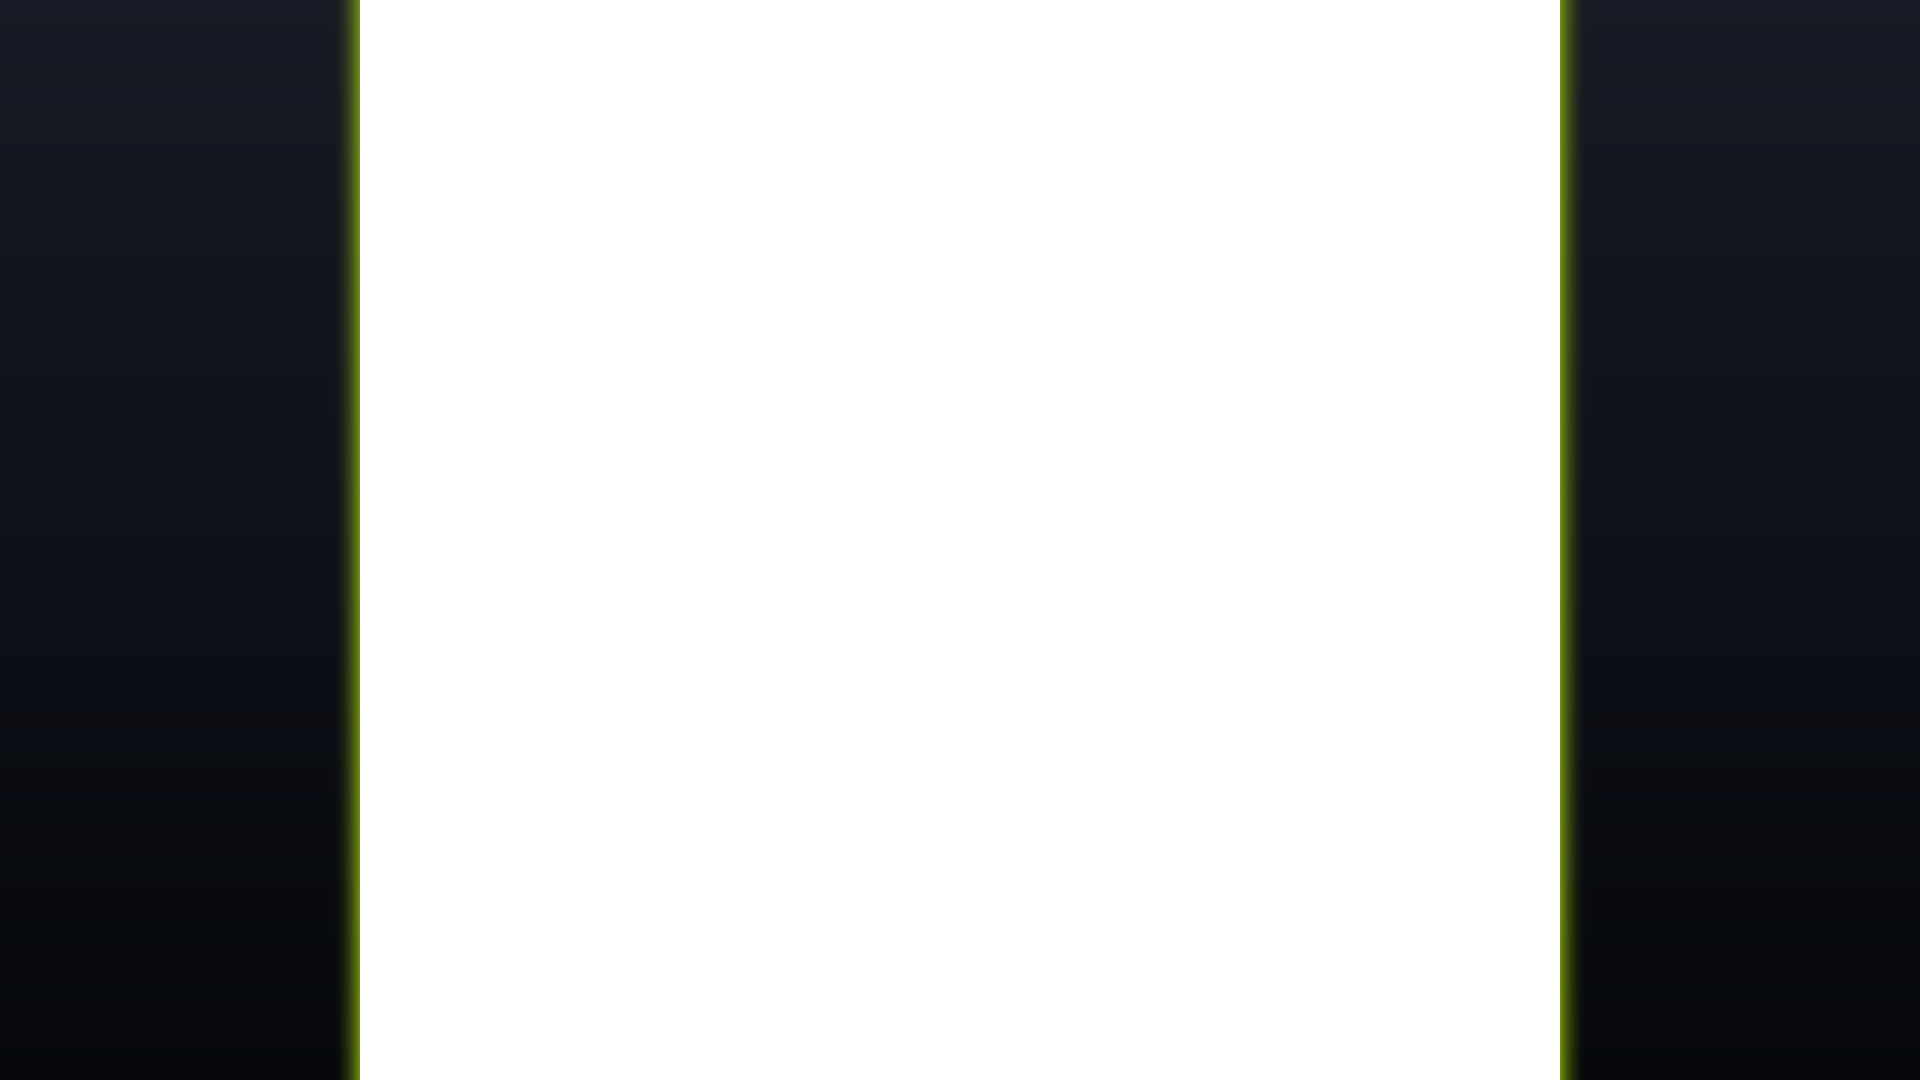
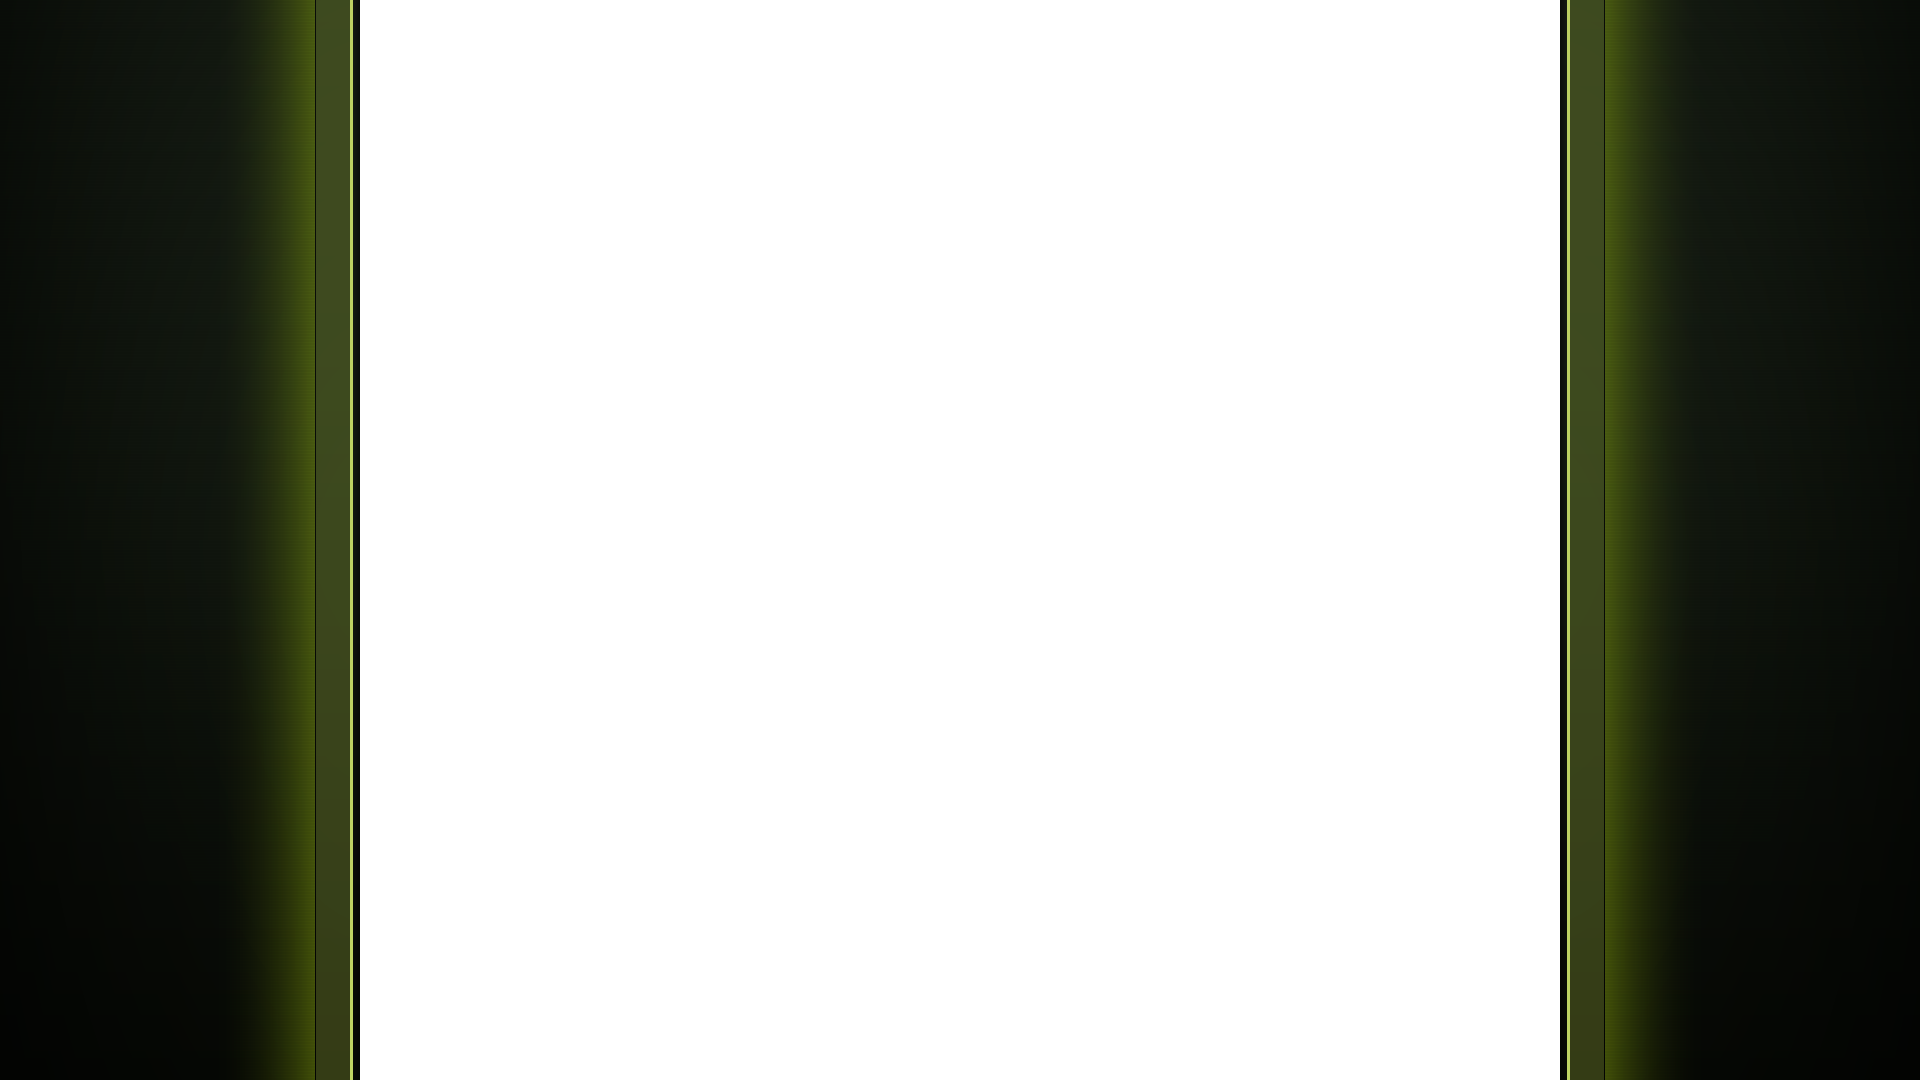
feat(bezels): des cadres mGBA qui ressemblent à des cadres
Le premier jet était deux panneaux et un filet. Celui-ci a la structure d'un
vrai bezel, du trou vers l'extérieur : un renfoncement sombre (la profondeur de
la découpe), un liseré clair dans la couleur de la console, une bande mate (le
passe-partout), une couture d'un pixel qui la ferme, un halo qui retombe dans le
panneau — panneau en dégradé, éclairé au centre en hauteur, brossé une ligne sur
trois, vigneté vers l'extérieur.

Tout est fonction de deux distances — au trou, au bord — donc le même objet
quel que soit le ratio : le trou 3:2 de la GBA a des panneaux étroits, le 10:9
de la Game Boy des panneaux larges, et le cadre autour est le même.

10:9 pour la Game Boy est le choix retenu, et il est documenté en tête du
script : avec sgb.borders=1 mGBA dessine un cadre Super Game Boy en 8:7 autour
du jeu, mesuré tel quel sur la boîte de référence (1234x1080). Le trou 10:9
couvre 17 px de cette bordure de chaque côté et rien du jeu.

diff --git a/scripts/make-console-bezel.py b/scripts/make-console-bezel.py
@@ -3,6 +3,23 @@
 
     scripts/make-console-bezel.py assets/overlays/mgba.gba.png --ratio 3:2
 
+The three mGBA bezels this repository ships were drawn with:
+
+    scripts/make-console-bezel.py assets/overlays/mgba.gb.png  --ratio 10:9 \
+        --top '#1b2418' --bottom '#080b06' --accent '#9bbc0f'
+    scripts/make-console-bezel.py assets/overlays/mgba.gbc.png --ratio 10:9 \
+        --top '#22162a' --bottom '#0a0710' --accent '#b76ff5'
+    scripts/make-console-bezel.py assets/overlays/mgba.gba.png --ratio 3:2 \
+        --top '#151b30' --bottom '#070912' --accent '#7c86ff'
+
+10:9 for the Game Boy is the machine's own 160x144. Note that mGBA with
+`sgb.borders=1` (the shipped seed) runs a Game Boy game through Super Game Boy
+mode and draws a 256x224 frame — 8:7 — around it; the reference box measured
+exactly that (1234x1080). A 10:9 hole then covers 17 px of that SGB border on
+each side and none of the game. That is the deliberate choice: the frame hugs
+the game, not the border. `--ratio 8:7` is one flag away for a box that wants
+the other reading.
+
 Why this script exists rather than three committed PNGs with no provenance
 --------------------------------------------------------------------------
 A bezel's hole is the part that has to be *right*, to the pixel: `bezels.py`
@@ -33,11 +50,26 @@ import sys
 import zlib
 from pathlib import Path
 
-# Wide enough to read as a frame edge at three metres, narrow enough not to eat
-# into the picture. The hole itself is never touched by it — the bevel is drawn
-# OUTSIDE the rectangle, so the transparent region stays exactly the ratio that
-# was asked for.
-_BEVEL = 28
+# The frame around the hole, from the hole outward. Distances in pixels of the
+# frame, all OUTSIDE the transparent rectangle — the hole itself is never
+# touched, so it stays exactly the ratio that was asked for.
+#
+#   0 .. _RECESS      a dark band, the "depth" of the cut-out
+#   _RECESS .. +_LINE a crisp bright line in the console's colour
+#   .. _GLOW          a soft halo fading back into the panel
+#   .. +_MAT         a flat matte band, the "mount" the picture sits in
+#   1 px              a thin dark seam closing the mount
+#   .. _GLOW          a soft halo of the console's colour fading into the panel
+_RECESS = 7
+_LINE = 3
+_MAT = 34
+_GLOW = 150
+
+# How much darker the far edges of the panels get. Draws the eye inward.
+_VIGNETTE = 0.55
+# Brushed texture: one row in three a hair lighter. Invisible from the sofa,
+# a material rather than a flat fill from up close.
+_BRUSH = 0.045
 
 
 def _chunk(kind: bytes, body: bytes) -> bytes:
@@ -48,6 +80,10 @@ def _chunk(kind: bytes, body: bytes) -> bytes:
 def _hex(s: str) -> tuple[int, int, int]:
     s = s.lstrip("#")
     return int(s[0:2], 16), int(s[2:4], 16), int(s[4:6], 16)
+
+
+def _mix(a: tuple[int, int, int], b: tuple[int, int, int], k: float) -> tuple[int, int, int]:
+    return tuple(round(a[i] + (b[i] - a[i]) * k) for i in range(3))  # type: ignore[return-value]
 
 
 def hole_for(frame_w: int, frame_h: int, ratio_w: int, ratio_h: int,
@@ -72,39 +108,83 @@ def hole_for(frame_w: int, frame_h: int, ratio_w: int, ratio_h: int,
 def render(frame_w: int, frame_h: int, hole: tuple[int, int, int, int],
            top: tuple[int, int, int], bottom: tuple[int, int, int],
            accent: tuple[int, int, int]) -> bytes:
-    hx, hy, hw, hh = hole
-    rows = bytearray()
+    """Two panels, a vertical gradient, and a lit frame around the hole.
 
+    Everything is a function of two distances — how far a pixel is from the
+    hole, and how far it is from the frame's outer edge — so the picture is
+    the same shape whatever the ratio: a wide GBA hole gets narrow panels, a
+    square-ish Game Boy hole gets wide ones, and the frame around each looks
+    like the same object.
+    """
+    hx, hy, hw, hh = hole
+    # A pale version of the accent for the crisp line: pure accent reads as a
+    # coloured stripe, a lifted one reads as light catching an edge.
+    line = _mix(accent, (255, 255, 255), 0.35)
+
+    # Per column, once: distance to the hole in x, and the vignette factor.
+    dxs = [max(hx - x, x - (hx + hw - 1), 0) for x in range(frame_w)]
+    # Distance to the nearest outer edge, as a fraction of the panel's width
+    # on that side, so both panels darken the same way whatever their width.
+    left_w = max(1, hx)
+    right_w = max(1, frame_w - (hx + hw))
+    vig = []
+    for x in range(frame_w):
+        if x < hx:
+            t = x / left_w
+        elif x >= hx + hw:
+            t = (frame_w - 1 - x) / right_w
+        else:
+            t = 1.0
+        # 1.0 at the hole, (1 - _VIGNETTE) at the outer edge, eased.
+        vig.append(1.0 - _VIGNETTE * (1.0 - t) ** 1.6)
+
+    mat_end = _RECESS + _LINE + _MAT
+    rows = bytearray()
     for y in range(frame_h):
         t = y / max(1, frame_h - 1)
-        base = tuple(round(top[i] + (bottom[i] - top[i]) * t) for i in range(3))
+        base = _mix(top, bottom, t)
+        # Lit from a point at mid-height: the panels are a touch brighter
+        # level with the middle of the picture and fall off toward the top
+        # and bottom edges, which is what stops them reading as flat strips.
+        spot = 1.0 - 0.28 * abs(2 * t - 1) ** 1.5
+        brush = 1.0 + _BRUSH if y % 3 == 0 else 1.0
+        dy = max(hy - y, y - (hy + hh - 1), 0)
+        inside_y = dy == 0
 
-        # Every row starts as the flat gradient colour, then only the pixels
-        # that need to differ are written. Touching 2 million pixels one at a
-        # time in Python is seconds; this is milliseconds.
-        row = bytearray(bytes(base + (255,)) * frame_w)
-
-        inside_y = hy <= y < hy + hh
-        if inside_y:
-            # Punch the hole: alpha 0, colour irrelevant but kept black so a
-            # viewer that ignores alpha shows black bars rather than a colour.
-            row[hx * 4:(hx + hw) * 4] = b"\x00\x00\x00\x00" * hw
-
-        # The bevel: a band hugging the hole on all four sides, brightening
-        # toward it. Distance is to the RECTANGLE, so the corners round off on
-        # their own instead of forming a square notch.
-        for x in range(max(0, hx - _BEVEL), min(frame_w, hx + hw + _BEVEL)):
-            if inside_y and hx <= x < hx + hw:
-                continue                                   # the hole itself
-            dx = max(hx - x, x - (hx + hw - 1), 0)
-            dy = max(hy - y, y - (hy + hh - 1), 0)
-            d = max(dx, dy)
-            if d > _BEVEL:
+        row = bytearray(frame_w * 4)
+        for x in range(frame_w):
+            dx = dxs[x]
+            if inside_y and dx == 0:
+                # The hole. Alpha 0; colour kept black so a viewer that
+                # ignores alpha shows black bars rather than a colour.
                 continue
-            k = (1 - d / _BEVEL) ** 2                      # sharp at the edge
+            d = max(dx, dy)
+            v = vig[x] * spot
+            r, g, b = round(base[0] * v), round(base[1] * v), round(base[2] * v)
+
+            if d <= _RECESS:
+                # Into the shadow of the cut. Darkest right at the hole.
+                k = 0.5 + 0.5 * (d / _RECESS)
+                r, g, b = round(r * k), round(g * k), round(b * k)
+            elif d <= _RECESS + _LINE:
+                r, g, b = line
+            elif d <= mat_end:
+                # The mount: flat, a little lighter than the panel, untextured.
+                r, g, b = _mix((r, g, b), accent, 0.22)
+                r, g, b = _mix((r, g, b), (255, 255, 255), 0.06)
+            elif d == mat_end + 1:
+                r, g, b = round(r * 0.45), round(g * 0.45), round(b * 0.45)
+            else:
+                if d <= _GLOW:
+                    k = (1 - (d - mat_end) / (_GLOW - mat_end)) ** 2.0
+                    r, g, b = _mix((r, g, b), accent, k * 0.4)
+                r, g, b = round(r * brush), round(g * brush), round(b * brush)
+
             p = x * 4
-            row[p:p + 3] = bytes(
-                round(base[i] + (accent[i] - base[i]) * k * 0.85) for i in range(3))
+            row[p] = min(255, r)
+            row[p + 1] = min(255, g)
+            row[p + 2] = min(255, b)
+            row[p + 3] = 255
 
         rows += b"\x00" + row                              # filter 0: None
 
